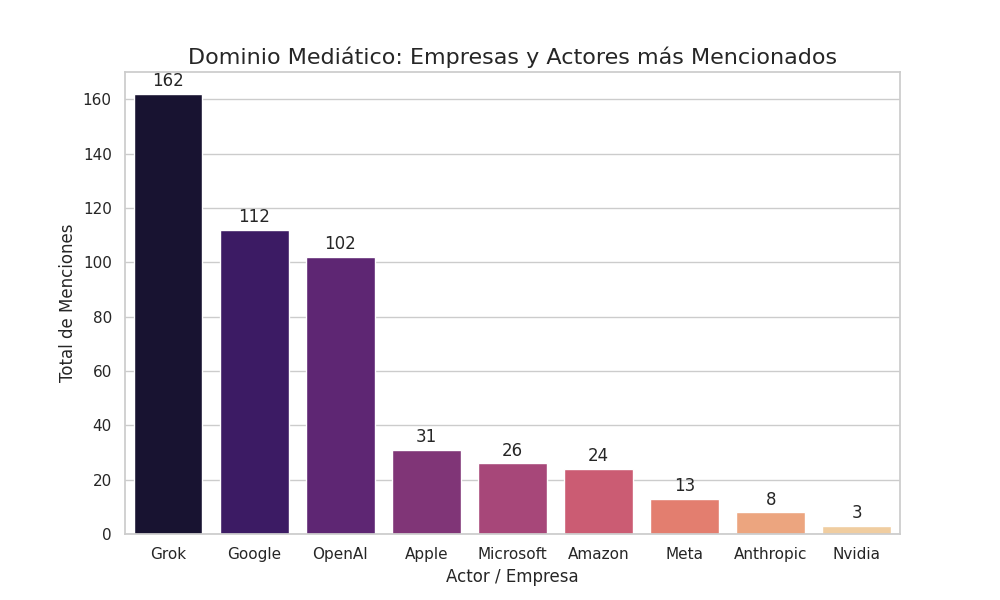
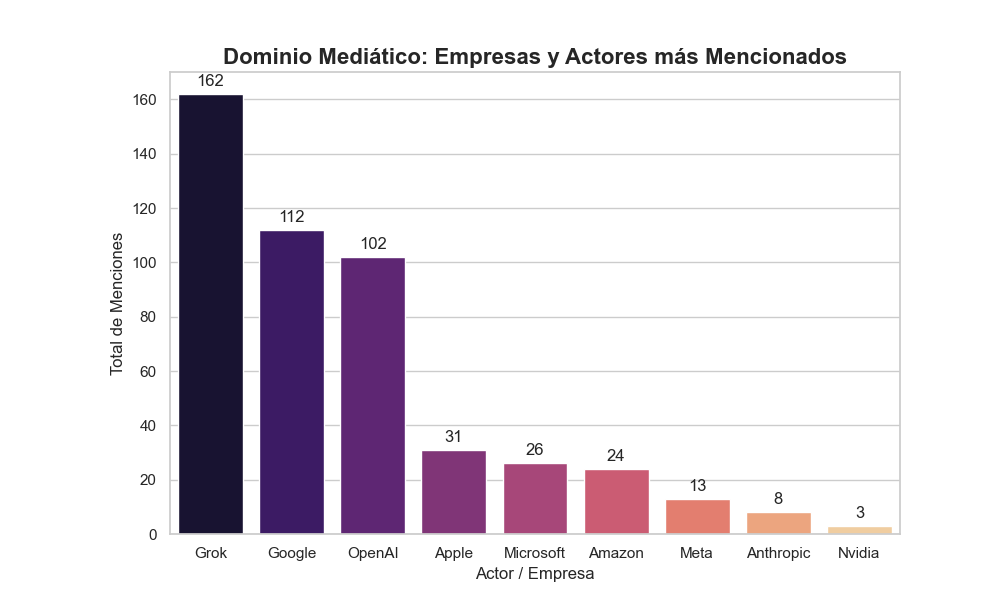
fix: figures

diff --git a/visualization/jaren/graphics_jaren.py b/visualization/jaren/graphics_jaren.py
@@ -6,13 +6,16 @@ import nltk
 from nltk.corpus import stopwords
 from collections import Counter
 import re
+import os
 
 # Descargar recursos necesarios de NLTK (solo la primera vez)
 nltk.download('stopwords')
 nltk.download('punkt')
 
 # 1. Cargar el CSV
-df = pd.read_csv('../../data/pazmino.csv')
+script_dir = os.path.dirname(os.path.abspath(__file__))
+csv_path = os.path.join(script_dir, '../../data/pazmino.csv')
+df = pd.read_csv(csv_path)
 
 # Limpieza básica: Eliminar filas vacías si falló el scraping
 df.dropna(subset=['Titulo', 'Contenido Completo'], inplace=True)
@@ -34,7 +37,6 @@ df['Sentimiento_Titulo'] = df['Titulo'].apply(analizar_sentimiento)
 df['Sentimiento_Contenido'] = df['Contenido Completo'].apply(analizar_sentimiento)
 
 # Crear el Gráfico
-plt.figure(figsize=(10, 6))
 sns.scatterplot(data=df, x='Sentimiento_Contenido', y='Sentimiento_Titulo', 
                 color='crimson', alpha=0.6, s=100)
 
@@ -45,13 +47,13 @@ plt.axvline(0, color='gray', linestyle='--', linewidth=0.8)
 # Línea de identidad (x=y) para ver la concordancia perfecta
 plt.plot([-1, 1], [-1, 1], color='blue', linestyle='--', label='Concordancia Perfecta')
 
-plt.title('Discrepancia Emocional: Título vs. Contenido', fontsize=16)
+plt.title('Discrepancia Emocional: Título vs. Contenido', fontsize=16, fontweight='bold')
 plt.xlabel('Sentimiento del Contenido (Cuerpo de la noticia)', fontsize=12)
 plt.ylabel('Sentimiento del Título (El Hook)', fontsize=12)
 plt.legend()
 plt.grid(True, alpha=0.3)
-plt.show()
-plt.savefig('question1.png')
+plt.savefig(os.path.join(script_dir, 'question1.png'))
+plt.clf()
 
 # Pregunta 2
 from nltk.util import ngrams
@@ -84,16 +86,15 @@ etiquetas = [" ".join(bg[0]) for bg in common_bigrams]
 valores = [bg[1] for bg in common_bigrams]
 
 # Crear Gráfico de Barras Horizontal
-plt.figure(figsize=(14, 10))
 sns.barplot(x=valores, y=etiquetas, palette='viridis')
 
-plt.title('Tendencias de Adopción: Conceptos más Frecuentes (Bigramas)', fontsize=16)
+plt.subplots_adjust(left=0.17)
+plt.title('Tendencias de Adopción: Conceptos más Frecuentes (Bigramas)', fontsize=16, fontweight='bold')
 plt.xlabel('Frecuencia de Aparición', fontsize=12)
 plt.ylabel('Concepto / Término', fontsize=12)
-plt.show()
-plt.savefig('question2.png')
+plt.savefig(os.path.join(script_dir, 'question2.png'))
+plt.clf()
 
-# Pregunta 3
 # Pregunta 3
 # Lista de actores a rastrear
 actores = {
@@ -121,10 +122,9 @@ df_actores = pd.DataFrame(list(actores.items()), columns=['Actor', 'Menciones'])
 df_actores = df_actores.sort_values(by='Menciones', ascending=False)
 
 # Crear Gráfico de Barras
-plt.figure(figsize=(10, 6))
 grafico = sns.barplot(data=df_actores, x='Actor', y='Menciones', palette='magma')
 
-plt.title('Dominio Mediático: Empresas y Actores más Mencionados', fontsize=16)
+plt.title('Dominio Mediático: Empresas y Actores más Mencionados', fontsize=16, fontweight='bold')
 plt.xlabel('Actor / Empresa', fontsize=12)
 plt.ylabel('Total de Menciones', fontsize=12)
 
@@ -136,5 +136,5 @@ for p in grafico.patches:
                      xytext = (0, 9), 
                      textcoords = 'offset points')
 
-plt.show()
-plt.savefig('question3.png')
+plt.savefig(os.path.join(script_dir, 'question3.png'))
+plt.clf()

diff --git a/visualization/bruno/graphics_bruno.py b/visualization/bruno/graphics_bruno.py
@@ -33,7 +33,6 @@ plt.rcParams['figure.figsize'] = (10, 6)
 # GRÁFICO 1: PIE CHART
 # Pregunta: ¿Cuánto domina la IA la conversación?
 # ==============================================================================
-plt.figure(figsize=(8, 8))
 conteo = df['Relevancia'].value_counts()
 colores = {'ALTA (IA)': '#ff6b6b', 'General Tech': '#4ecdc4'}
 
@@ -43,12 +42,12 @@ plt.pie(conteo, labels=conteo.index, autopct='%1.1f%%',
 plt.title('Distribución de Noticias: IA vs Tecnología General', fontsize=16, fontweight='bold')
 plt.tight_layout()
 plt.savefig(os.path.join(script_dir, 'question1.png'))
+plt.clf()
 
 # ==============================================================================
 # GRÁFICO 2: BARRAS DE IMPACTO PROMEDIO
 # Pregunta: ¿La IA genera más engagement (puntos/comentarios) promedio?
 # ==============================================================================
-plt.figure(figsize=(10, 6))
 
 promedios = df.groupby('Relevancia')[['Puntos', 'Comentarios']].mean().reset_index()
 
@@ -70,12 +69,12 @@ for container in ax.containers:
 
 plt.tight_layout()
 plt.savefig(os.path.join(script_dir, 'question2.png'))
+plt.clf()
 
 # ==============================================================================
 # GRÁFICO 3: TOP FUENTES DE IA
 # Pregunta: ¿De dónde salen las noticias de IA?
 # ==============================================================================
-plt.figure(figsize=(10, 6))
 
 df_ia = df[df['Relevancia'] == 'ALTA (IA)'].copy()
 
@@ -89,3 +88,4 @@ plt.ylabel('Sitio Web', fontsize=12)
 
 plt.tight_layout()
 plt.savefig(os.path.join(script_dir, 'question3.png'))
+plt.clf()

diff --git a/visualization/david/graphics_david.py b/visualization/david/graphics_david.py
@@ -85,7 +85,6 @@ for container in ax.containers:
     ax.bar_label(container, labels=tmp_hue['Percentage'])
 
 plt.savefig(os.path.join(script_dir, 'question1.png'))
-plt.show()
 plt.clf()
 
 # PREGUNTA 2
@@ -337,7 +336,6 @@ for container in ax.containers:
 
 ax.legend().remove()
 plt.savefig(os.path.join(script_dir, 'question2.png'))
-plt.show()
 plt.clf()
 
 # PREGUNTA 3
@@ -427,5 +425,4 @@ for container in ax.containers:
     ax.bar_label(container, labels=tmp_hue['Percentage'])
 
 plt.savefig(os.path.join(script_dir, 'question3.png'))
-plt.show()
 plt.clf()
